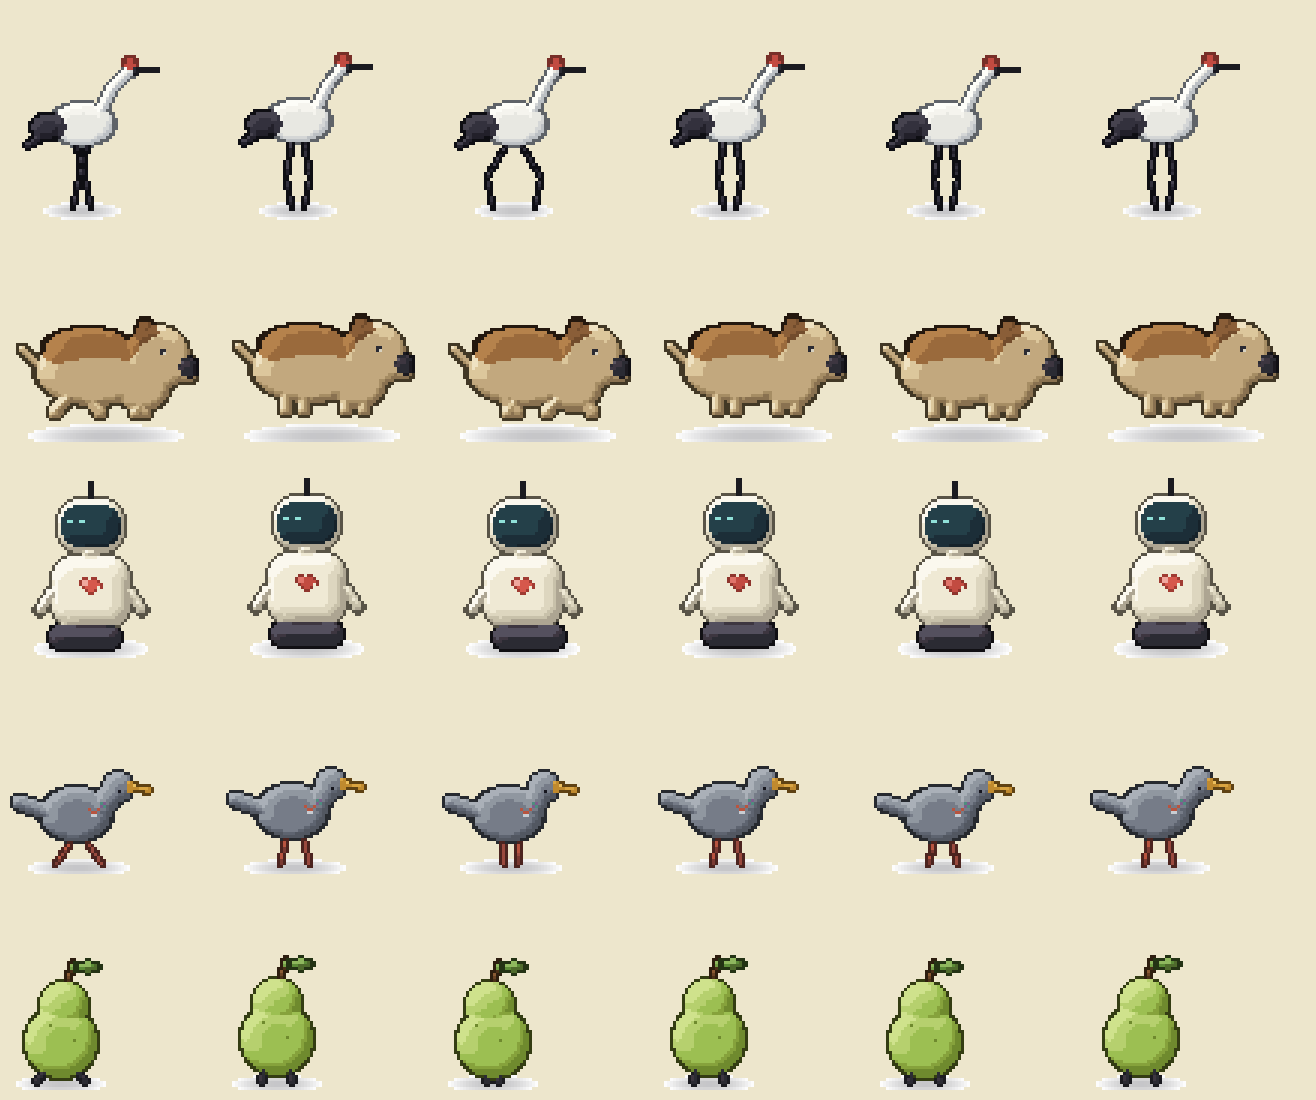
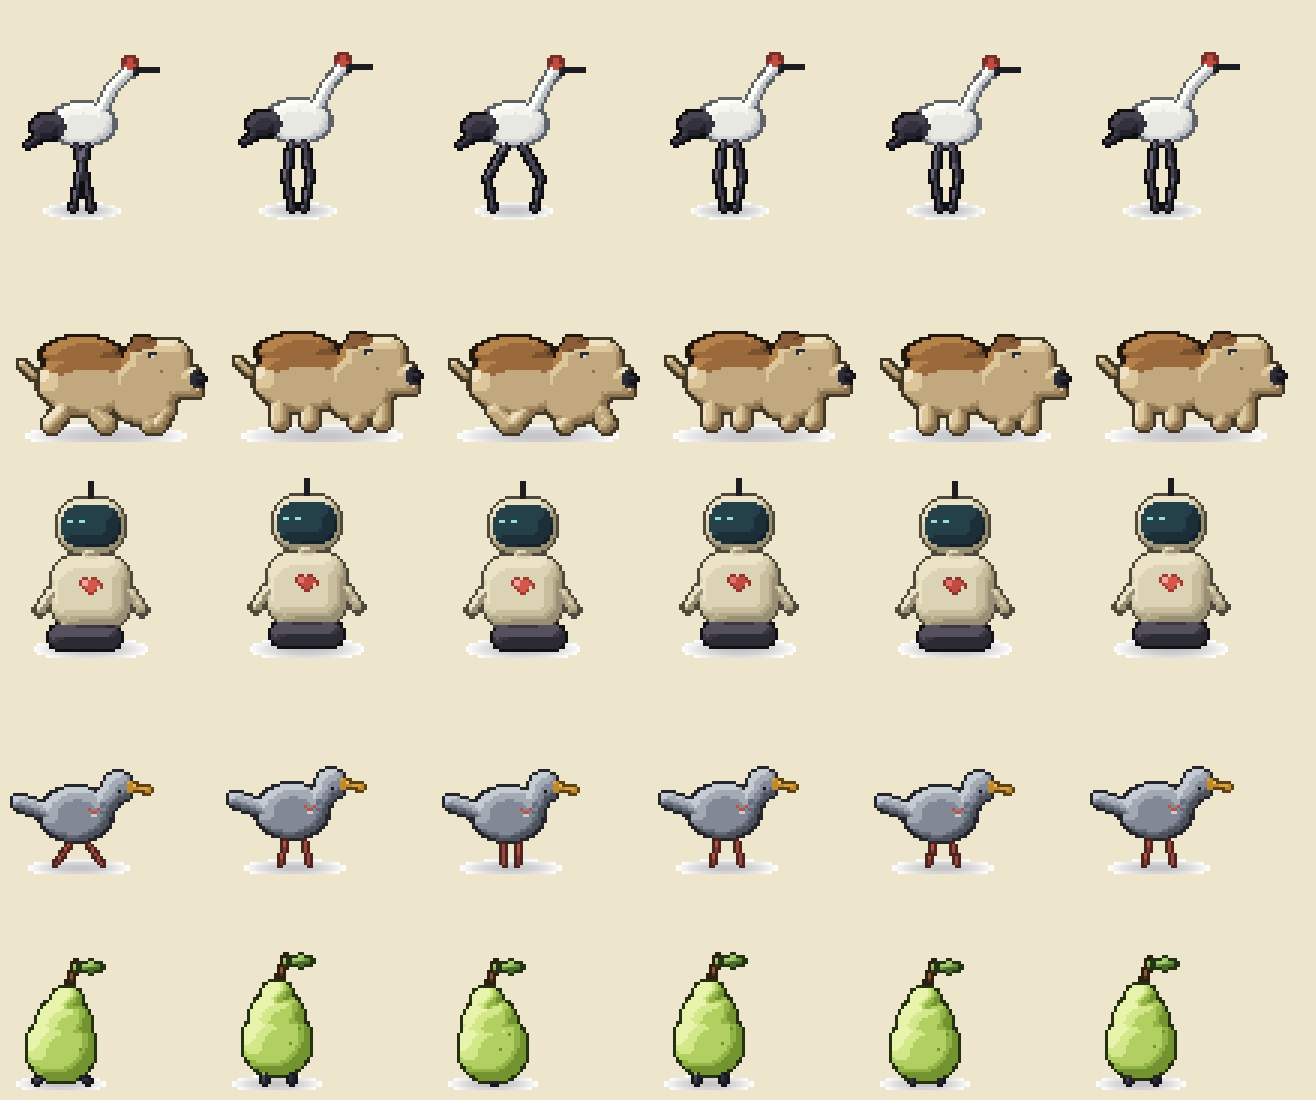
Companion fidelity round 2: address the panel's bar findings
- bulldog: redrawn from a generic oval quadruped (read as a capybara) into a
  stocky big-headed dog — broad low torso, jutting underbite muzzle + dark
  nose, folded rose ear, saddle flush to the back (no hump), wide planted legs
- pear: smooth tapered teardrop with a full tonal ramp + specular (was a flat
  blob) and real walk life (lean + bob + freckle shift)
- robot: warm off-white body instead of stark white so it stops out-anchoring
  the horse on the parchment scene
- pigeon: brighter top-light highlight on back/crown for a fuller ramp
- crane: thicker charcoal legs with a lit edge so they read at trail scale

diff --git a/tools/sprites/companions-hi.ts b/tools/sprites/companions-hi.ts
@@ -27,47 +27,46 @@ const BULLDOG_MATS = {
 };
 
 function bulldogFrame(legSwing: number, bob: number): SpriteSpec {
-  const baseY = 38 - bob;
-  const leg = (x: number, swing: number): Prim => ({ ax: x, ay: baseY - 6, bx: x + swing, by: baseY, kind: "capsule", mat: "fawn", r: 3.4 });
+  const baseY = 42 - bob;
+  // Short, thick, wide-set legs (a bulldog stands low and planted).
+  const leg = (x: number, swing: number): Prim => ({ ax: x, ay: baseY - 5, bx: x + swing, by: baseY, kind: "capsule", mat: "fawn", r: 4 });
   return {
     decals: [
-      {
-        grid: "##\n#o",
-        palette: { "#": "#2b2b33", o: "#d8d2c0" },
-        x: 50,
-        y: 17 - bob,
-      },
-      // wet nose highlight
-      { grid: "n", palette: { n: "#5b5560" }, x: 57, y: 21 - bob },
+      // brow + eye
+      { grid: "###\n#o.", palette: { "#": "#2b2b33", o: "#d8d2c0" }, x: 46, y: 18 - bob },
+      // jowl wrinkle under the eye
+      { grid: "w", palette: { w: "#8a7450" }, x: 50, y: 24 - bob },
     ],
     height: 48,
     materials: BULLDOG_MATS,
     prims: [
-      // back legs then front legs (so fronts read in front)
-      leg(20, -legSwing),
-      leg(40, legSwing),
-      leg(26, legSwing * 0.8),
-      leg(46, -legSwing * 0.8),
-      // tail
-      { ax: 9, ay: 22 - bob, bx: 4, by: 17 - bob, kind: "capsule", mat: "fawn", r: 2.4 },
-      // torso
-      { kind: "ellipse", mat: "fawn", rx: 21, ry: 13, x: 28, y: 24 - bob },
-      // chest
-      { kind: "ellipse", mat: "fawn", rx: 11, ry: 12, x: 44, y: 27 - bob },
-      // brown saddle on the back (bias so it wins the top material)
-      { bias: 6, kind: "ellipse", mat: "saddle", rx: 16, ry: 7, x: 26, y: 16 - bob },
-      // head
-      { kind: "circle", mat: "fawn", r: 12, x: 49, y: 20 - bob },
-      // snout
-      { kind: "rect", mat: "fawn", round: 3, rx: 7, ry: 5, x: 56, y: 24 - bob },
-      // nose tip
-      { bias: 8, kind: "circle", mat: "nose", r: 3, x: 60, y: 23 - bob },
-      // ear
-      { bias: 4, kind: "ellipse", mat: "ear", rx: 4, ry: 6, x: 45, y: 12 - bob },
+      // legs — wide stance, fronts planted forward
+      leg(18, -legSwing),
+      leg(28, legSwing),
+      leg(44, legSwing * 0.7),
+      leg(52, -legSwing * 0.7),
+      // stubby tail
+      { ax: 8, ay: 26 - bob, bx: 4, by: 22 - bob, kind: "capsule", mat: "fawn", r: 2.2 },
+      // torso — low and wide, hindquarters narrower than the chest
+      { kind: "ellipse", mat: "fawn", rx: 18, ry: 11, x: 25, y: 29 - bob },
+      // broad chest, set forward and low
+      { kind: "ellipse", mat: "fawn", rx: 13, ry: 13, x: 43, y: 30 - bob },
+      // brown saddle — flush color patch inside the back, no silhouette hump
+      { bias: 6, kind: "ellipse", mat: "saddle", rx: 14, ry: 4.5, x: 23, y: 23 - bob },
+      // big blocky head, the bulldog's defining mass
+      { kind: "rect", mat: "fawn", round: 7, rx: 12, ry: 11, x: 50, y: 25 - bob },
+      // folded rose ear flat on the skull
+      { bias: 4, kind: "rect", mat: "ear", round: 2, rx: 4, ry: 3, x: 46, y: 17 - bob },
+      // muzzle block
+      { bias: 2, kind: "rect", mat: "fawn", round: 3, rx: 7, ry: 6, x: 57, y: 28 - bob },
+      // protruding lower jaw (the underbite) juts past the muzzle
+      { bias: 7, kind: "rect", mat: "fawn", round: 2, rx: 5, ry: 3, x: 60, y: 31 - bob },
+      // nose
+      { bias: 10, kind: "rect", mat: "nose", round: 2, rx: 2.6, ry: 2.2, x: 63, y: 27 - bob },
     ],
     roundness: 6,
-    shadow: { rx: 26, ry: 4, x: 32, y: 46 },
-    width: 66,
+    shadow: { rx: 27, ry: 4, x: 32, y: 46 },
+    width: 70,
   };
 }
 
@@ -75,15 +74,17 @@ export const BULLDOG_HI: HiCompanion = {
   height: 48,
   idle: [bulldogFrame(0, 0), bulldogFrame(0, 1)],
   name: "bulldog",
-  walk: [bulldogFrame(5, 0), bulldogFrame(0, 1), bulldogFrame(-5, 0), bulldogFrame(0, 1)],
-  width: 66,
+  walk: [bulldogFrame(4, 0), bulldogFrame(0, 1), bulldogFrame(-4, 0), bulldogFrame(0, 1)],
+  width: 70,
 };
 
 // ------------------------------------------------------------------ robot ---
 
 const ROBOT_MATS = {
   antenna: { ramp: ["#2b2b33", "#3d3640", "#54505e"] },
-  metal: { ramp: ["#8f8872", "#ada592", "#c8c1aa", "#ddd6bf", "#efe9d4", "#fbf8ee"], specular: true },
+  // Warm off-white (not stark white) so the robot joins the parchment scene
+  // instead of stealing the anchor from the horse.
+  metal: { ramp: ["#7e765f", "#998f74", "#b3a988", "#c8be9e", "#dcd2b4", "#ece2c6"], specular: true },
   screen: { ramp: ["#16222a", "#1c2e38", "#244049"] },
   tread: { ramp: ["#1c1a20", "#2b2b33", "#3d3640", "#54505e"] },
 };
@@ -142,7 +143,7 @@ export const ROBOT_HI: HiCompanion = {
 
 const PIGEON_MATS = {
   beak: { ramp: ["#9a6a1e", "#c08a2e", "#d9a441", "#ecc060"] },
-  body: { ramp: ["#3f434c", "#52576180", "#5e6470", "#767c88", "#9097a0", "#aab0b8"].map((c) => c.slice(0, 7)), specular: false },
+  body: { ramp: ["#3a3e47", "#4c515b", "#646a76", "#828896", "#a4aab4", "#c6ccd4"], specular: false },
   leg: { ramp: ["#7a3a32", "#9a4a3e", "#b8543f"] },
 };
 
@@ -189,30 +190,37 @@ export const PIGEON_HI: HiCompanion = {
 // ------------------------------------------------------------------- pear ---
 
 const PEAR_MATS = {
-  leaf: { ramp: ["#3a5220", "#4f6b2c", "#5c8c37", "#74a046", "#8fb85e"] },
-  leg: { ramp: ["#2b2b33", "#3d3640"] },
-  pear: { ramp: ["#54631f", "#6f8a2e", "#86a23c", "#9cbf52", "#b6d06e", "#cfe28c"], specular: true },
+  leaf: { ramp: ["#3a5220", "#4f6b2c", "#5c8c37", "#74a046", "#8fb85e", "#a8cc70"] },
+  leg: { ramp: ["#22202a", "#33313d", "#4a4754"] },
+  // Wide tonal range + specular so the body has clear volume even tiny.
+  pear: { ramp: ["#3a4e18", "#566f24", "#739330", "#92b446", "#b2d062", "#d2e88a", "#e8f4ac"], specular: true },
   stem: { ramp: ["#4a3018", "#6b4426", "#8a5a33"] },
 };
 
 function pearFrame(legSwing: number, lean: number, bob: number): SpriteSpec {
   return {
-    decals: [{ grid: "f", palette: { f: "#6f8a2e" }, x: 12 + lean, y: 28 - bob }, { grid: "f", palette: { f: "#6f8a2e" }, x: 20 + lean, y: 33 - bob }],
+    decals: [
+      // freckles ride the lower-right shadow side
+      { grid: "f", palette: { f: "#739330" }, x: 21 + lean, y: 36 - bob },
+      { grid: "f", palette: { f: "#739330" }, x: 24 + lean, y: 31 - bob },
+    ],
     height: 50,
+    light: { x: -0.6, y: -0.7, z: 0.5 },
     materials: PEAR_MATS,
     prims: [
       // legs
-      { ax: 13, ay: 42 - bob, bx: 12 - legSwing, by: 47, kind: "capsule", mat: "leg", r: 1.8 },
-      { ax: 21, ay: 42 - bob, bx: 22 + legSwing, by: 47, kind: "capsule", mat: "leg", r: 1.8 },
-      // pear body: small top + big bottom
-      { kind: "circle", mat: "pear", r: 9, x: 17 + lean, y: 22 - bob },
-      { kind: "circle", mat: "pear", r: 13, x: 17, y: 34 - bob },
+      { ax: 14, ay: 43 - bob, bx: 13 - legSwing, by: 47, kind: "capsule", mat: "leg", r: 1.9 },
+      { ax: 21, ay: 43 - bob, bx: 22 + legSwing, by: 47, kind: "capsule", mat: "leg", r: 1.9 },
+      // pear body: a smooth taper (neck → shoulders → belly), not a snowman
+      { kind: "circle", mat: "pear", r: 6.5, x: 17 + lean, y: 21 - bob },
+      { kind: "circle", mat: "pear", r: 10, x: 17 + Math.round(lean / 2), y: 28 - bob },
+      { kind: "circle", mat: "pear", r: 12.5, x: 17, y: 36 - bob },
       // stem
       { kind: "capsule", mat: "stem", r: 1.6, ax: 18 + lean, ay: 14 - bob, bx: 20 + lean, by: 8 - bob },
       // leaf
       { bias: 3, kind: "ellipse", mat: "leaf", rx: 5, ry: 2.6, x: 25 + lean, y: 9 - bob },
     ],
-    roundness: 9,
+    roundness: 10,
     shadow: { rx: 15, ry: 3, x: 17, y: 48 },
     width: 38,
   };
@@ -220,9 +228,9 @@ function pearFrame(legSwing: number, lean: number, bob: number): SpriteSpec {
 
 export const PEAR_HI: HiCompanion = {
   height: 50,
-  idle: [pearFrame(0, 0, 0), pearFrame(0, 1, 1)],
+  idle: [pearFrame(0, 0, 0), pearFrame(0, 0, 1)],
   name: "pear",
-  walk: [pearFrame(3, 1, 0), pearFrame(0, 0, 1), pearFrame(-3, -1, 0), pearFrame(0, 0, 1)],
+  walk: [pearFrame(4, 2, 0), pearFrame(0, 0, 2), pearFrame(-4, -2, 0), pearFrame(0, 0, 2)],
   width: 38,
 };
 
@@ -234,6 +242,8 @@ const CRANE_MATS = {
   beak: { ramp: ["#2b2b33", "#3d3640"] },
   black: { ramp: ["#16161e", "#22202a", "#33313d", "#46434f"] },
   crown: { flat: true, ramp: ["#c24b41"] },
+  // Charcoal legs with a lit grey edge so they stay grounded at small sizes.
+  leg: { ramp: ["#16161e", "#2b2b33", "#46434f", "#6b6776"] },
   white: { ramp: ["#9aa0a8", "#bcc0c4", "#d4d6d6", "#e8e8e2", "#f5f4ee", "#fdfdf8"], specular: false },
 };
 
@@ -243,11 +253,11 @@ function craneFrame(stride: number, headDx: number, bob: number): SpriteSpec {
     height: 60,
     materials: CRANE_MATS,
     prims: [
-      // long striding legs (toe joint kink)
-      { ax: 22, ay: 32 - bob, bx: 20 + stride, by: 44, kind: "capsule", mat: "black", r: 1.4 },
-      { ax: 20 + stride, ay: 44, bx: 22 + stride, by: 54, kind: "capsule", mat: "black", r: 1.3 },
-      { ax: 26, ay: 32 - bob, bx: 28 - stride, by: 44, kind: "capsule", mat: "black", r: 1.4 },
-      { ax: 28 - stride, ay: 44, bx: 26 - stride, by: 54, kind: "capsule", mat: "black", r: 1.3 },
+      // long striding legs (toe joint kink) — thickened so a lit edge survives
+      { ax: 22, ay: 32 - bob, bx: 20 + stride, by: 44, kind: "capsule", mat: "leg", r: 2 },
+      { ax: 20 + stride, ay: 44, bx: 22 + stride, by: 54, kind: "capsule", mat: "leg", r: 1.8 },
+      { ax: 26, ay: 32 - bob, bx: 28 - stride, by: 44, kind: "capsule", mat: "leg", r: 2 },
+      { ax: 28 - stride, ay: 44, bx: 26 - stride, by: 54, kind: "capsule", mat: "leg", r: 1.8 },
       // body
       { kind: "ellipse", mat: "white", rx: 12, ry: 8, x: 24, y: 26 - bob },
       // black tail bustle draping at the rear (iconic red-crowned crane)

diff --git a/src/client/journey.ts b/src/client/journey.ts
@@ -37,7 +37,7 @@ const TRAINER = {
 // larger native sizes, rendered ~0.9x so they read as creatures beside the
 // painted 128px trainer/horse while sharing their pixel density.
 const COMPANIONS: Record<CompanionName, SpriteMeta> = {
-  bulldog: meta(66, 48, 0.9, "bulldog"),
+  bulldog: meta(70, 48, 0.9, "bulldog"),
   crane: meta(56, 60, 0.9, "crane"),
   horse: { frameHeight: 128, frameWidth: 128, idleFrames: 2, idleSrc: `${SPRITES}/horse-idle.png`, scale: 0.82, walkFrames: 4, walkSrc: `${SPRITES}/horse-walk.png` },
   pear: meta(38, 50, 0.9, "pear"),
